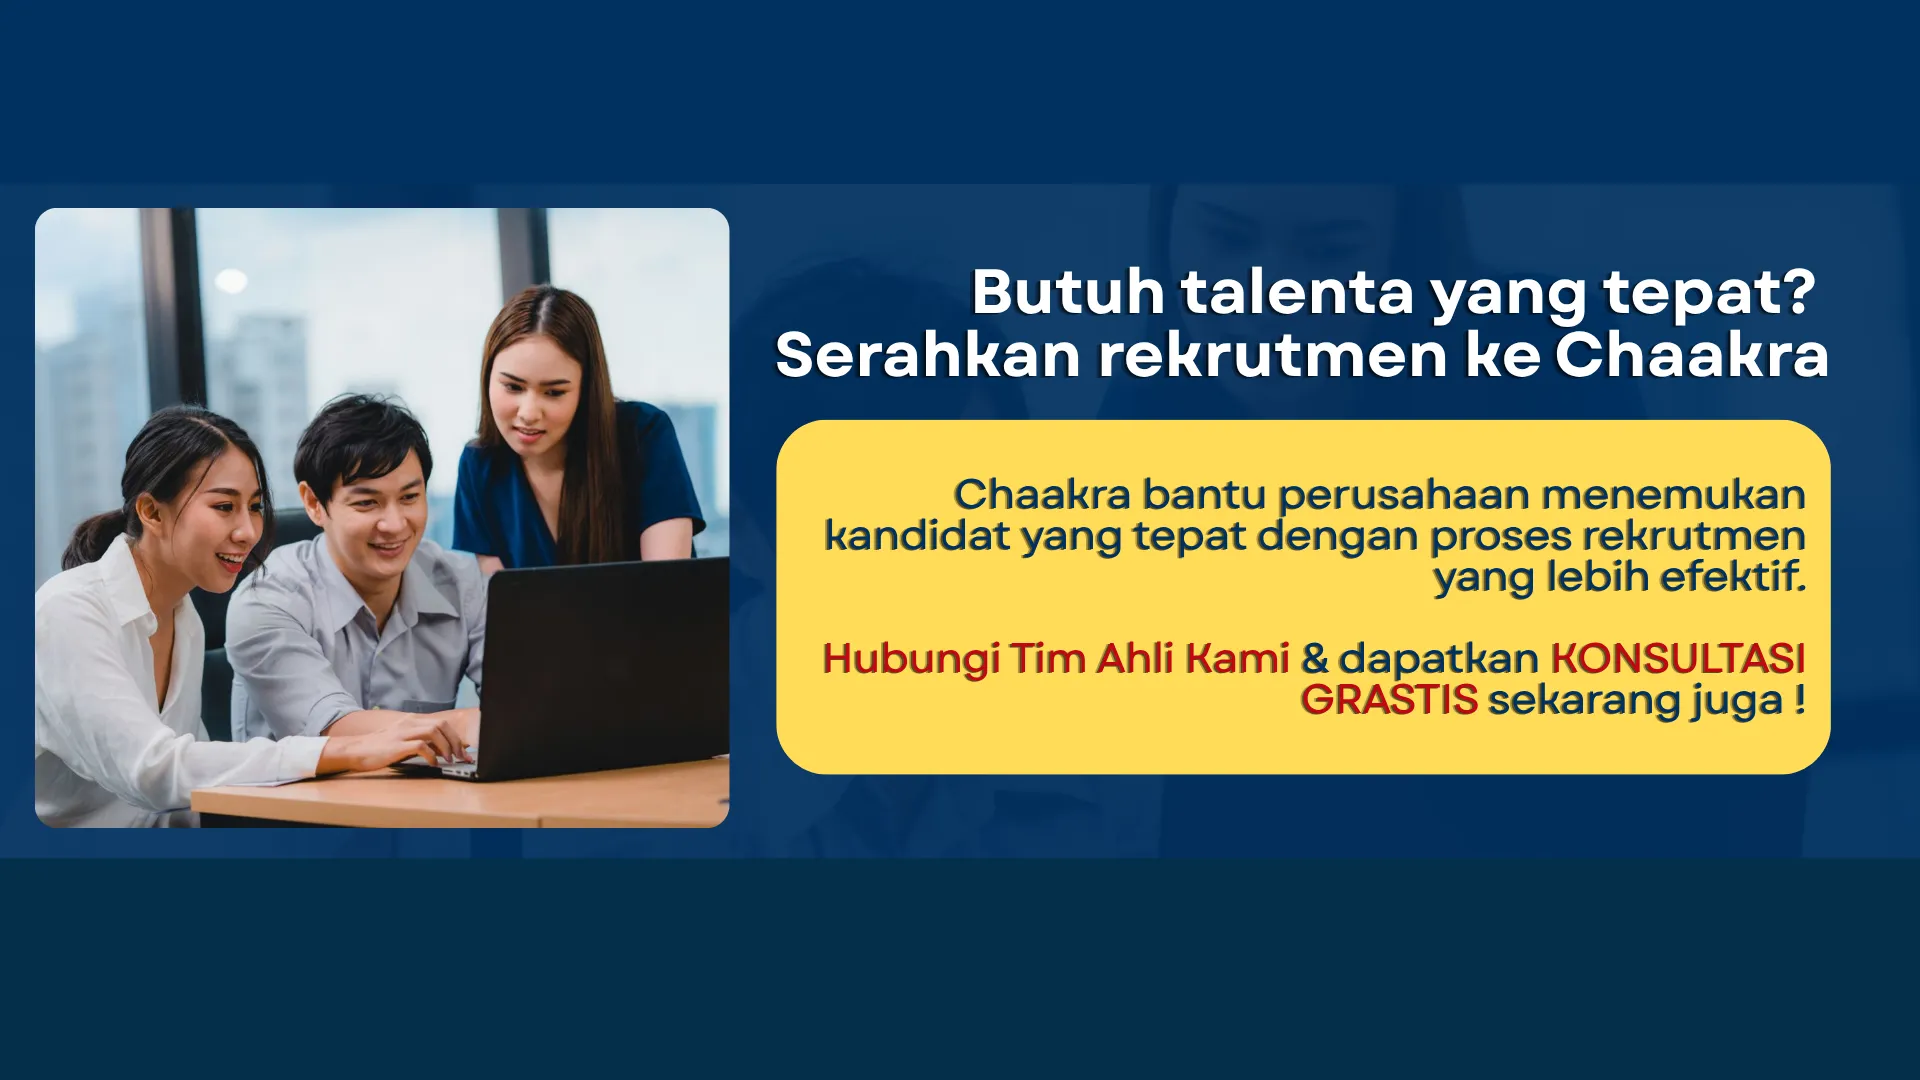
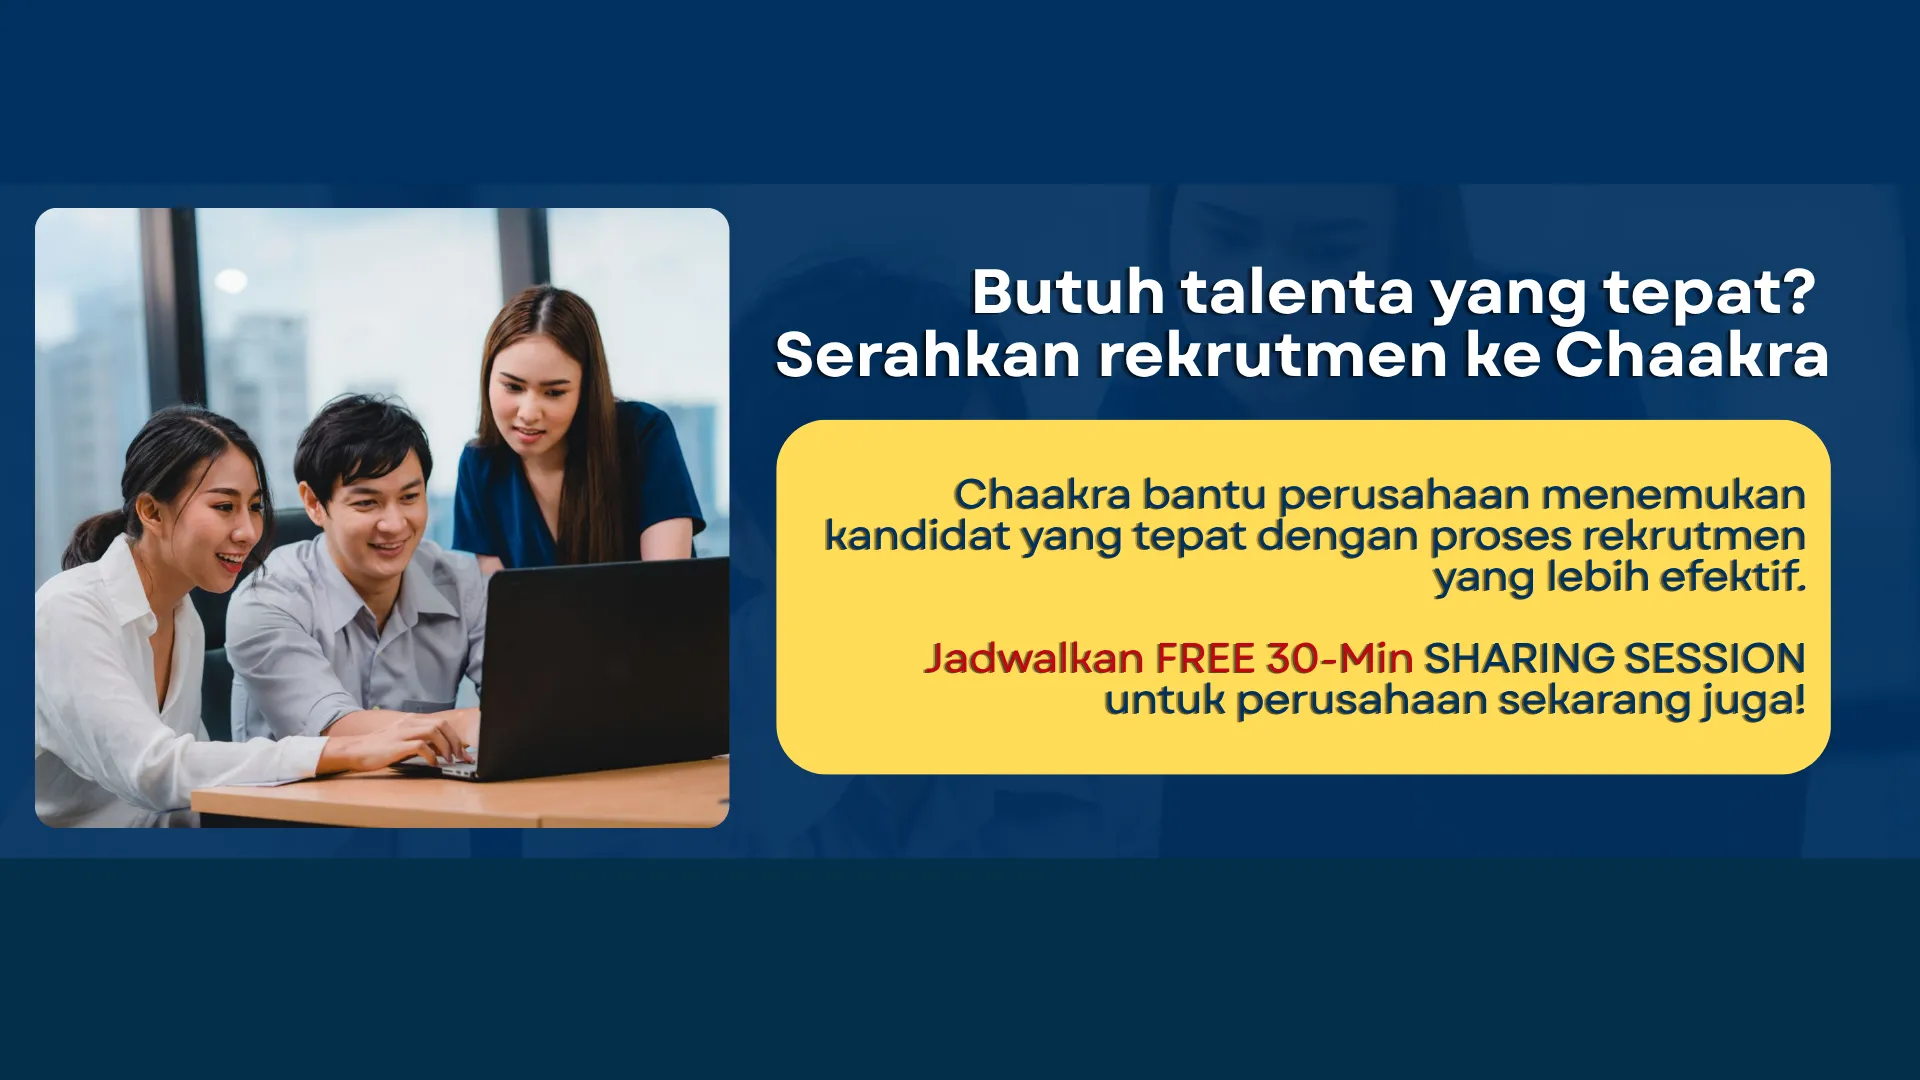
Small Changes
+ Changed talent test href
+ Changed slide image

Changed region(s): [[0.4375, 0.5806, 0.9375, 0.6722]]

diff --git a/resources/views/index.blade.php b/resources/views/index.blade.php
@@ -651,7 +651,7 @@
 
                         <div class="relative mt-8">
                             <button
-                                onclick="window.location.href='https://choise.chaakra-consulting.com/talent-test/daftar/1';"
+                                onclick="window.location.href='https://choise.chaakra-consulting.com/#pelatihan-section';"
                                 class="group/btn relative w-full overflow-hidden rounded-xl bg-[#ffdc59] p-px font-semibold text-white cursor-pointer">
                                 <div
                                     class="relative rounded-xl px-4 py-3 transition-colors group-hover/btn:bg-transparent">
